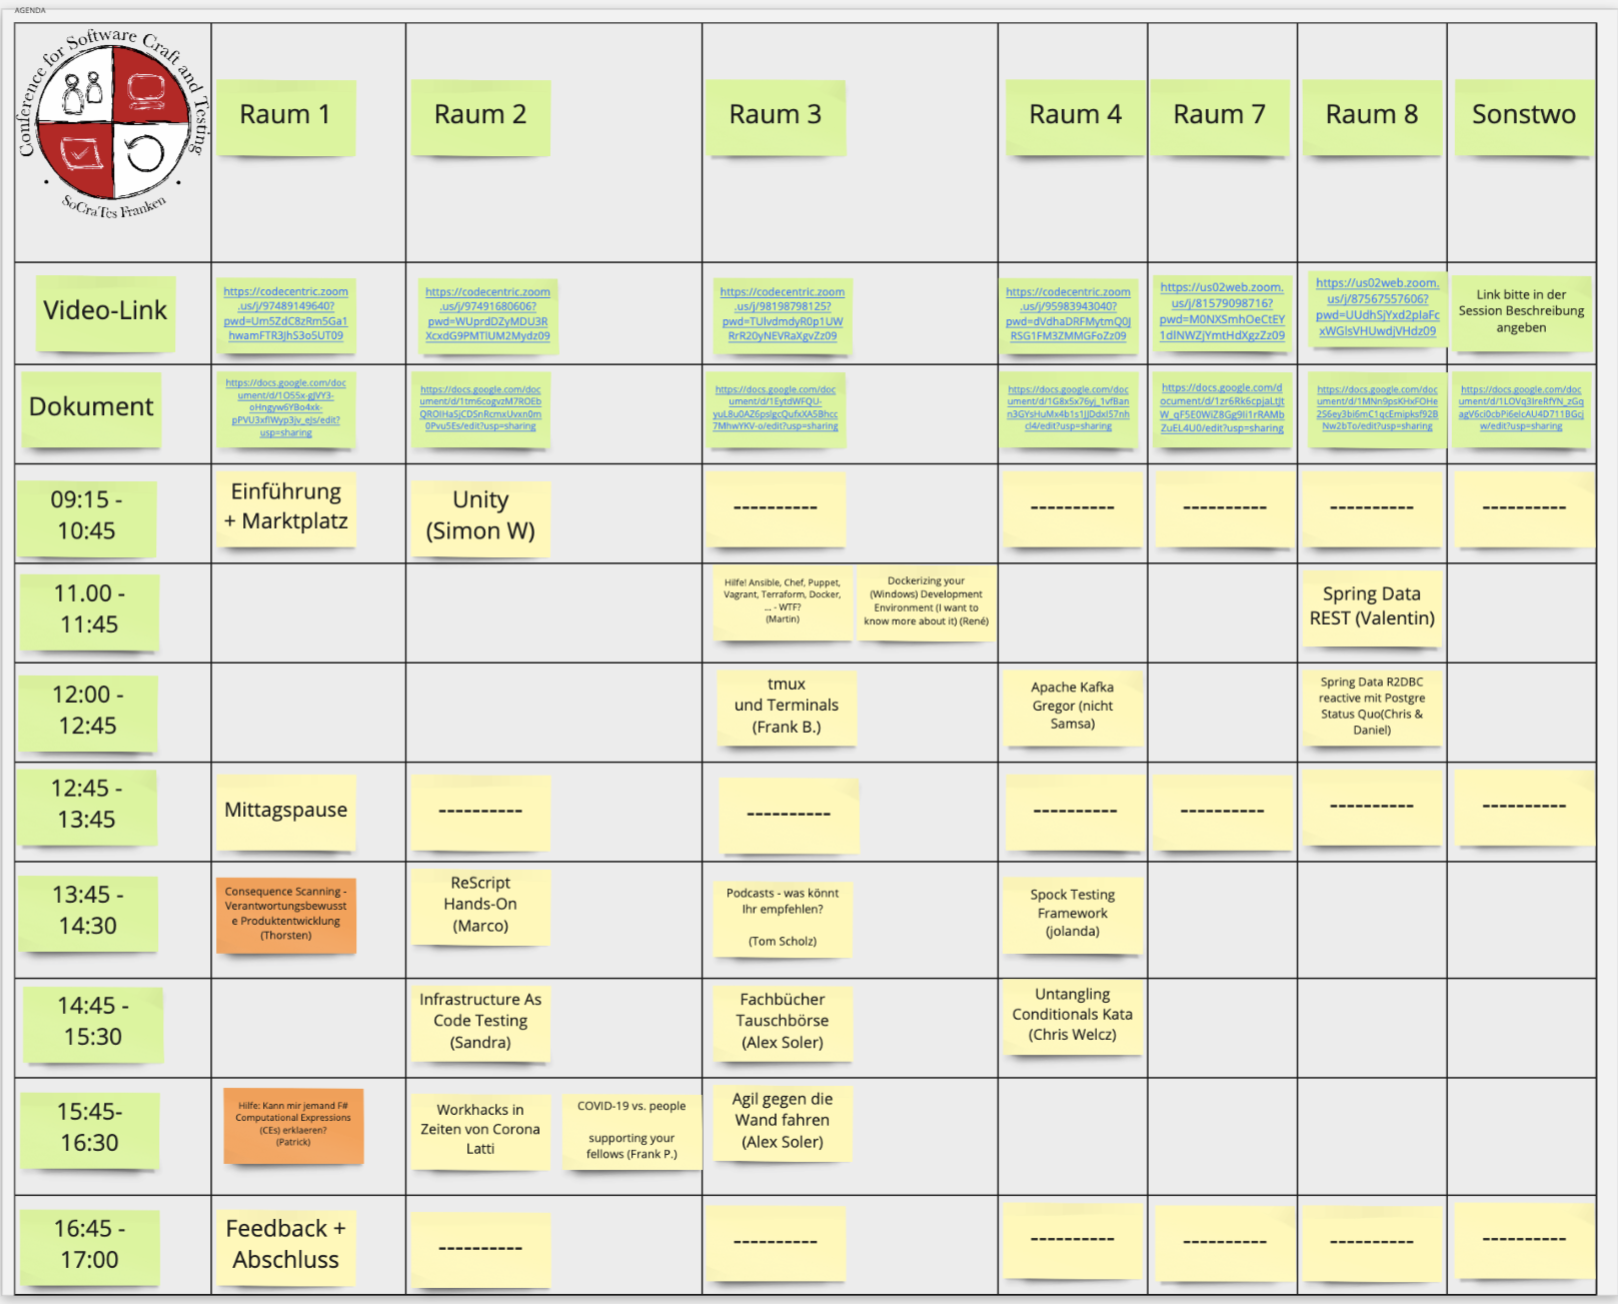
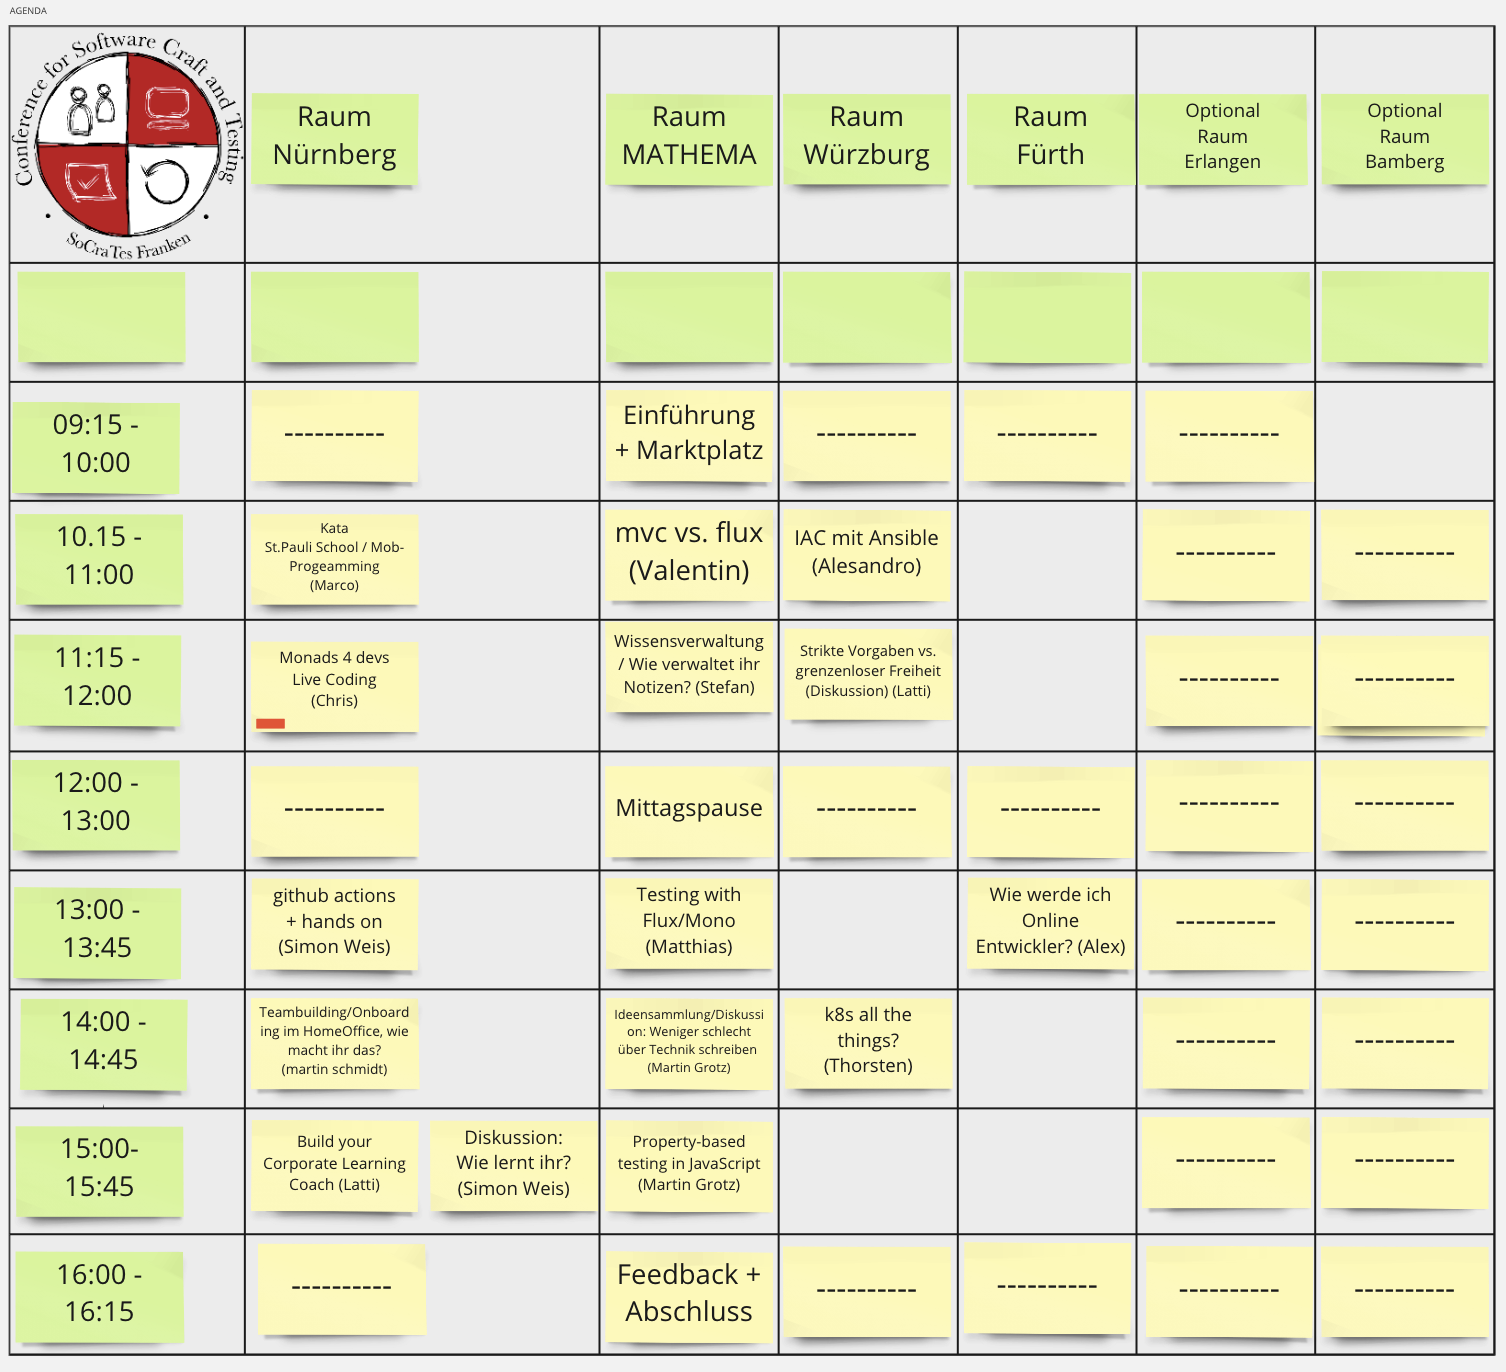
feat: update content for 2023 edition

diff --git a/src/app/app.component.ts b/src/app/app.component.ts
@@ -12,7 +12,7 @@ export class AppComponent {
   pages$: Observable<Array<string>>;
   homepages$: Observable<Array<string>>;
   title = 'SoCraTes Day Franken';
-  subtitle = '09.10.2021';
+  subtitle = '24.06.2023';
 
   constructor(private pagesService: PagesService) {
     this.pages$ = this.pagesService.getPages()

diff --git a/src/pages/Rueckblick.md b/src/pages/Rueckblick.md
@@ -1,15 +1,23 @@
 # Rückblick
 
-## SoCraTes Day Franken 2020
+## 4. SoCraTes Day Franken 2021
+
+Der SoCraTes Day Franken 2021 hat nochmal online stattgefunden am Samstag den 09.10.2021
+
+## Sessions 2021
+
+<img src="/assets/sdf2021-sessions.png">
+
+## 3. SoCraTes Day Franken 2020
 
 Der SoCraTes Day Franken 2020 hat stattgefunden am Samstag den 17.10.2020
 online im Rahmen der 3. <a href="https://wueww.de/" target="_blank">Würzburg Web Week</a>
 
 ## Sessions 2020
 
-<img src="/assets/sdf2021-sessions.png">
+<img src="/assets/sdf2020-sessions.png">
 
-## SoCraTes Day Franken 2019
+## 2. SoCraTes Day Franken 2019
 
 Der SoCraTes Day Franken 2019 hat stattgefunden am Samstag den 28.09.2019 in den Räumen der <a href="https://www.datev.de/" target="_blank">DATEV</a> in Nürnberg.
 
@@ -20,33 +28,7 @@ Der SoCraTes Day Franken 2019 hat stattgefunden am Samstag den 28.09.2019 in den
 <img src="/assets/scdf19-sessions-3.jpeg">
 <img src="/assets/scdf19-kick-off.jpeg">
 
-## Unsere Sponsoren 2019
-
-### <a href="//www.datev.de" target="_blank">DATEV eG</a>
-
-### <a href="http://www.agile-elevation.de" target="_blank">agile elevation</a>
-
-### <a href="//www.consorsbank.de" target="_blank">BNP Paribas S.A. Consorsbank</a>
-
-### <a href="//www.brandad-systems.de" target="_blank">BRANDAD Systems AG</a>
-
-### <a href="//www.codecentric.de" target="_blank">codecentric AG</a>
-
-### <a href="//www.hetzner.de" target="_blank">Hetzner Online GmbH</a>
-
-### <a href="//www.innoq.com" target="_blank">innoQ Deutschland GmbH</a>
-
-### <a href="//www.iso-gruppe.com" target="_blank">ISO Gruppe</a>
-
-### <a href="//www.mathema.de" target="_blank">MATHEMA Software GmbH</a>
-
-### <a href="//www.methodpark.de" target="_blank">Method Park Holding AG</a>
-
-### <a href="//www.de.paessler.com" target="_blank">Paessler AG</a>
-
-### <a href="//www.pentasys.de" target="_blank">PENTASYS AG</a>
-
-## SoCraTes Day Franken 2018
+## 1. SoCraTes Day Franken 2018
 
 Der erste SoCraTes Day Franken hat stattgefunden am Samstag den 29.09.2018 in den Räumen der <a href="https://www.consorsbank.de/" target="_blank">Consorsbank</a> in Nürnberg.
 

diff --git a/src/pages/Ort.md b/src/pages/Ort.md
@@ -1,7 +1,25 @@
 # Veranstaltungsort
 
-## Online
+## codecentric Nürnberg
 
-Der SoCraTes Day Franken findet statt am Samstag den 09.10.2021 - dieses Jahr noch einmal komplett virtuell.
+Der SoCraTes Day Franken findet am Samstag den 24.06.2023 in den Räumen von codecentric in Nürnberg statt.
 
-Die Links zur Online-Veranstaltung werden den Teilnehmer:innen wenige Tage vor dem Termin bekannt gegeben.
+<a href="https://www.codecentric.de/" target="_blank">Webseite von codecentric</a>
+
+### Anfahrt
+
+Adresse: **codecentric AG, Sophie-Germain-Str. 12, 90443 Nürnberg**
+
+<a href="https://www.google.de/maps/place/codecentric+AG/@49.4431435,11.0676894,17z/data=!3m1!4b1!4m6!3m5!1s0x479f5765ee61e2d3:0xfdea631df67f47ee!8m2!3d49.4431435!4d11.0676894!16s%2Fg%2F11g_x661b2?hl=de" target="_blank">codecentric Nürnberg auf Google Maps</a>
+
+#### Mit dem Zug
+
+Der Veranstaltungsort liegt direkt am S-Bahnhof Steinbühl in Nürnberg, eine Station vom Hauptbahnhof entfernt.
+
+#### Mit dem Auto
+
+Es stehen verschiedene Parkmöglichkeiten in der Nähe des Veranstaltungsorts zur Verfügung.
+
+### Übernachtungsmöglichkeiten
+
+Es gibt in Nürnberg eine große Anzahl an Hotels. Einige davon sind vom Veranstaltungsort auch zu Fuß gut erreichbar.

diff --git a/src/pages/Home.md b/src/pages/Home.md
@@ -1,8 +1,6 @@
-# SoCraTes Day Franken
+# 5. SoCraTes Day Franken
 
-## Samstag 09.10.2021 - Online
-
-Dieses Jahr werden wir uns noch einmal online treffen.
+## Samstag 24.06.2023 in Nürnberg
 
 ## Worum geht es?
 
@@ -27,5 +25,5 @@ Unsere Events werden auch über unsere <a href="https://www.meetup.com/de-DE/sof
 
 ## Tickets
 
-Die Anmeldung für den SoCraTes Day Franken läuft
-über <a href="https://ti.to/SoCraTesDayFranken/2021" target="_blank">Tito</a>.
+Die Anmeldung für den SoCraTes Day Franken ist noch nicht freigeschaltet und läuft
+über <a href="https://ti.to/SoCraTesDayFranken/2023" target="_blank">Tito</a>.

diff --git a/src/pages/Ablauf.md b/src/pages/Ablauf.md
@@ -17,13 +17,6 @@ Seht bei solchen Sessions aber genügend Zeit für Fragen und Interaktion vor.
 - Wer ein Thema vorschlägt, muss nicht Expert:in sein. Es reicht mehr darüber wissen zu wollen.
 Häufig finden sich dann Leute zur Session ein, die viel zum Thema beitragen können.
 
-**Achtung!**
-
-- **Diesmal findet der SoCraTes Day Franken komplett online statt.**
-- **"Zettel" und "Räume" werden virtuell sein.**
-- **Pausenzeiten sind explizit vorgesehen.**
-- **Es wird auch Gelegenheiten zum informellen Austausch geben**
-
 ## Zeitplan
 
 Wir planen mit einem Zeitrahmen von 9 bis 17 Uhr.

diff --git a/src/pages/Sponsoren.md b/src/pages/Sponsoren.md
@@ -2,10 +2,8 @@
 
 ### <a href="//www.codecentric.de" target="_blank">codecentric AG</a>
 
-### <a href="//www.mathema.de" target="_blank">MATHEMA GmbH</a>
+### <a href="http://www.agile-elevation.de" target="_blank">agile elevation</a>
 
-### <a href="//www.methodpark.de" target="_blank">Method Park Holding AG</a>
-
-Für eine weitere Unterstützung auch unserer Online-Veranstaltung sind wir sehr dankbar.
+Für eine weitere Unterstützung sind wir sehr dankbar.
 
 E-Mail: info@socrates-day-franken.de
